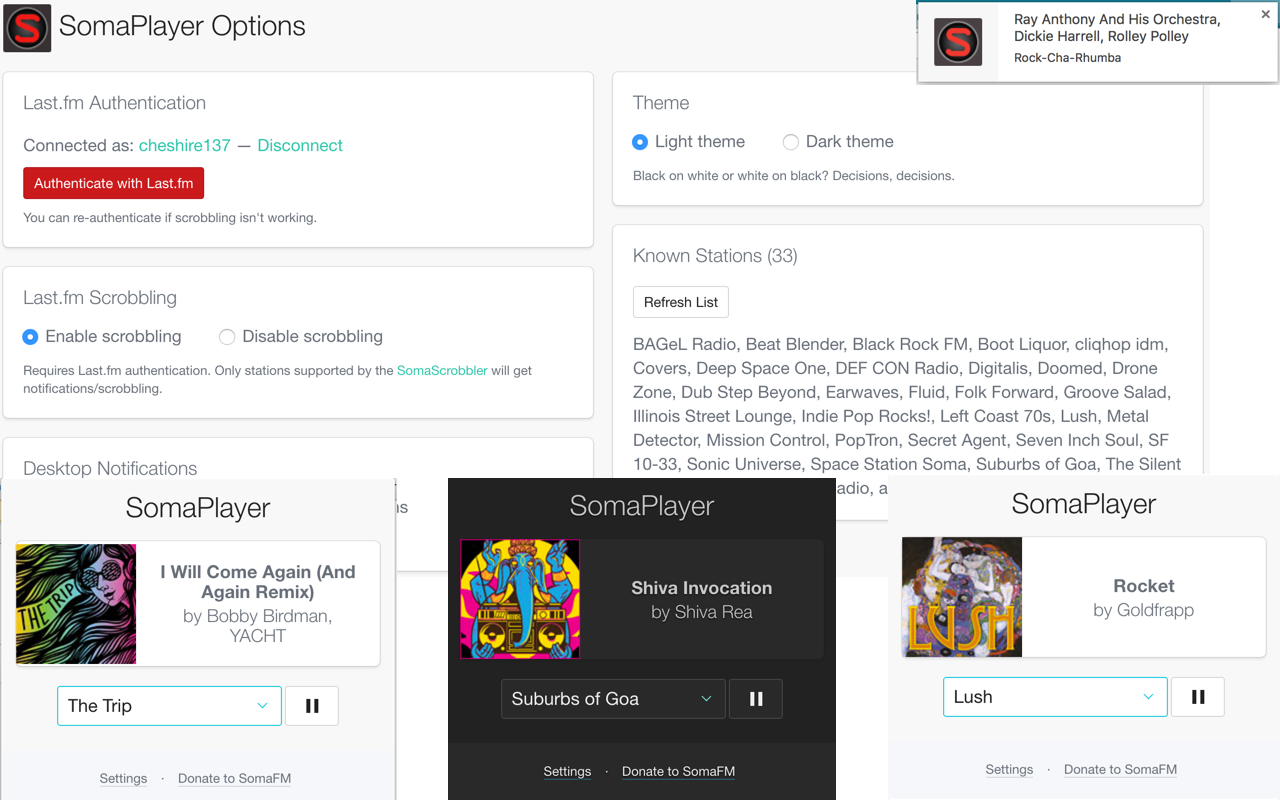
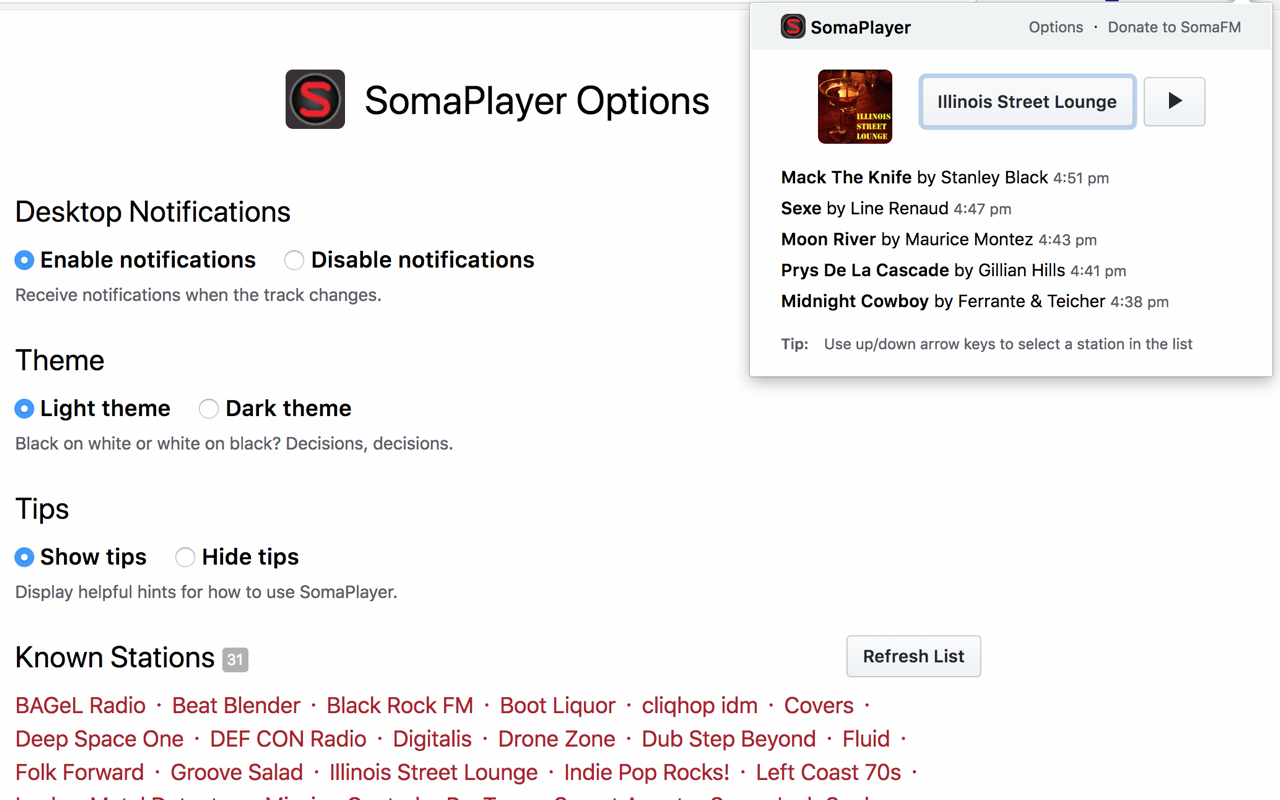
Update promo assets, screenshots

diff --git a/README.md b/README.md
@@ -10,19 +10,7 @@ See the [change log](CHANGELOG.md). You might also be interested in my [desktop 
 
 ## Screenshots
 
-The popup using the dark theme with a song playing:
-
-![Screenshot - the popup dark](https://raw.githubusercontent.com/cheshire137/soma-chrome/master/screenshots/popup-dark.png)
-
-The popup using the light theme with a song playing:
-
-![Screenshot - the popup light](https://raw.githubusercontent.com/cheshire137/soma-chrome/master/screenshots/popup-light.png)
-
-The options page using the light theme:
-
-![Screenshot - the options page](https://raw.githubusercontent.com/cheshire137/soma-chrome/master/screenshots/options-light.png)
-
-A song notification:
+![Screenshot - popup](https://raw.githubusercontent.com/cheshire137/soma-chrome/master/promo-assets/920x680.png)
 
 ![Screenshot - a song notification](https://raw.githubusercontent.com/cheshire137/soma-chrome/master/screenshots/notification.png)
 
